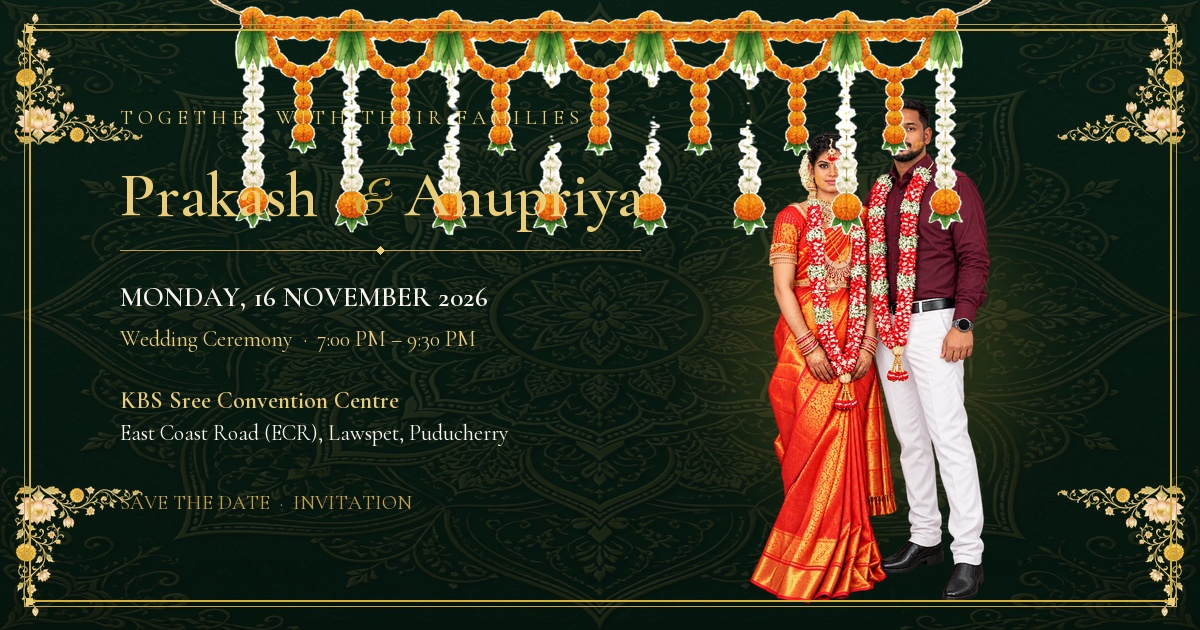
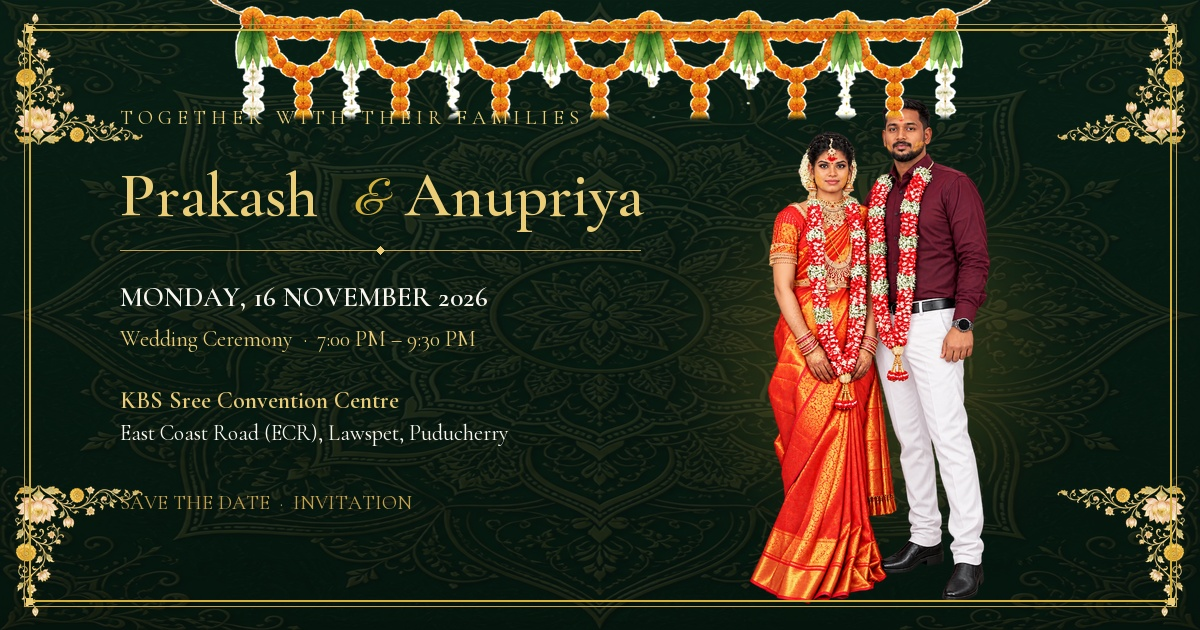
fix: refine top flower toran with clean auspicious marigold swags, remove wispy feathery strings and fix text overlap

Changed region(s): [[0.4317, 0.181, 0.8017, 0.3921], [0.185, 0.181, 0.4317, 0.3619]]

diff --git a/src/components/wedding/Hero.tsx b/src/components/wedding/Hero.tsx
@@ -44,7 +44,7 @@ export function Hero() {
         alt=""
         aria-hidden
         style={{ y: garlandY }}
-        className="pointer-events-none absolute -top-2 left-1/2 w-[135%] max-w-none -translate-x-1/2 opacity-100 drop-shadow-[0_8px_16px_rgba(0,0,0,0.35)]"
+        className="pointer-events-none absolute -top-1 left-1/2 w-[108%] max-w-none -translate-x-1/2 opacity-100 drop-shadow-[0_8px_16px_rgba(0,0,0,0.35)]"
       />
 
       <div className="relative z-10 mx-auto flex w-full max-w-md flex-1 flex-col items-center px-6 pt-32 text-center">
